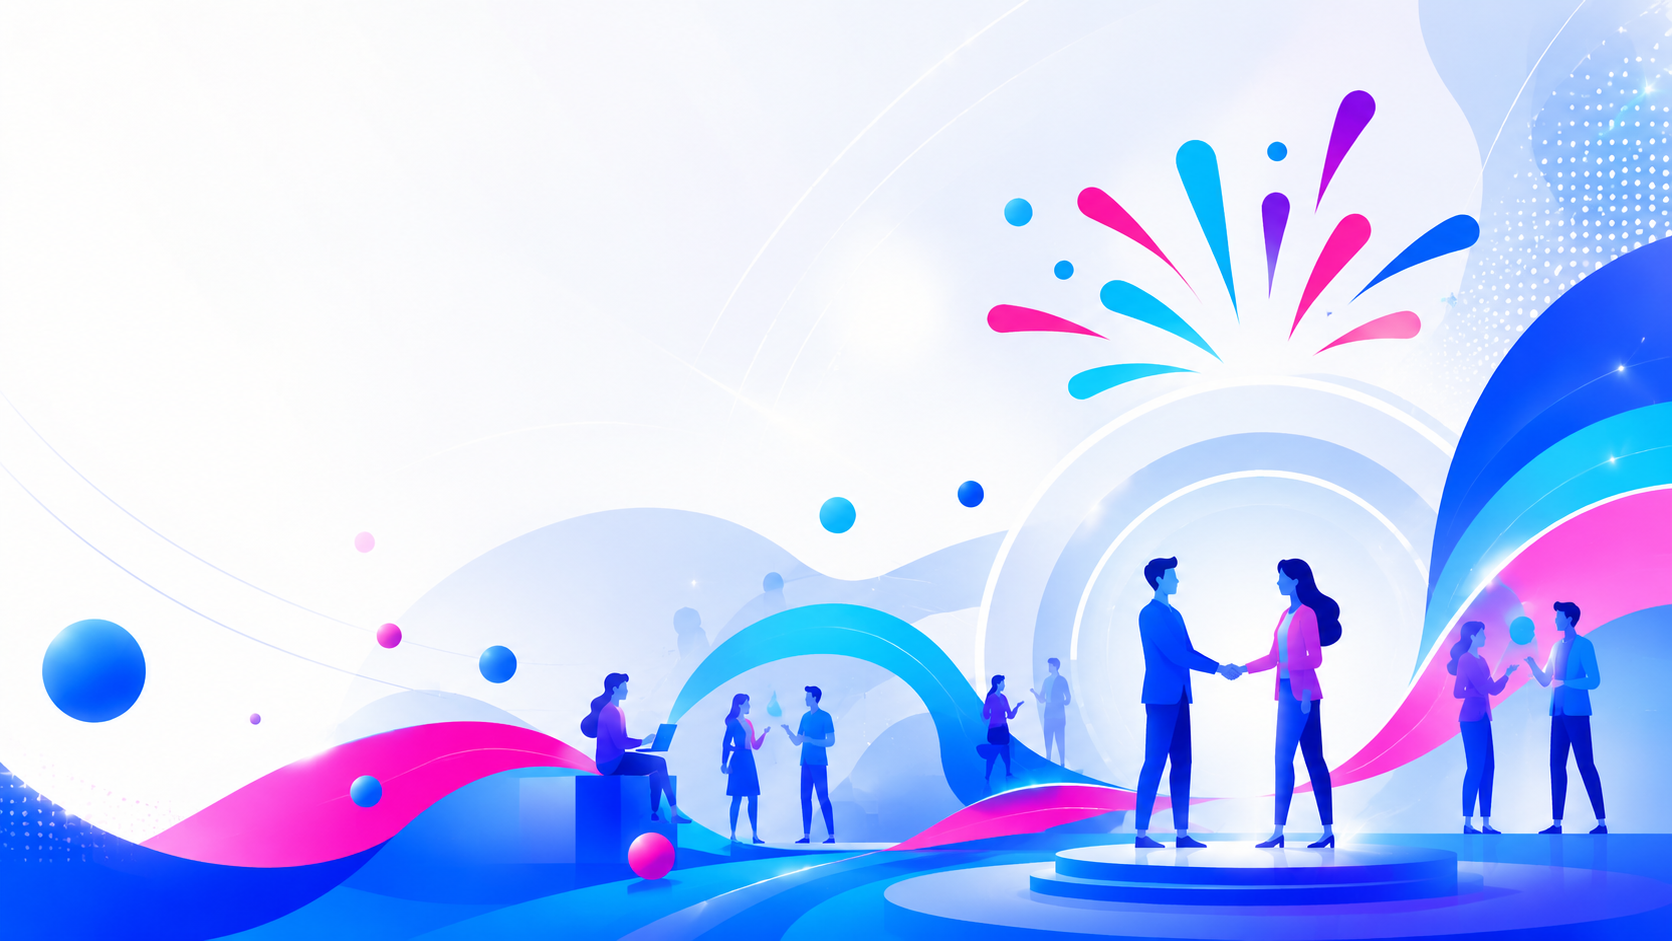
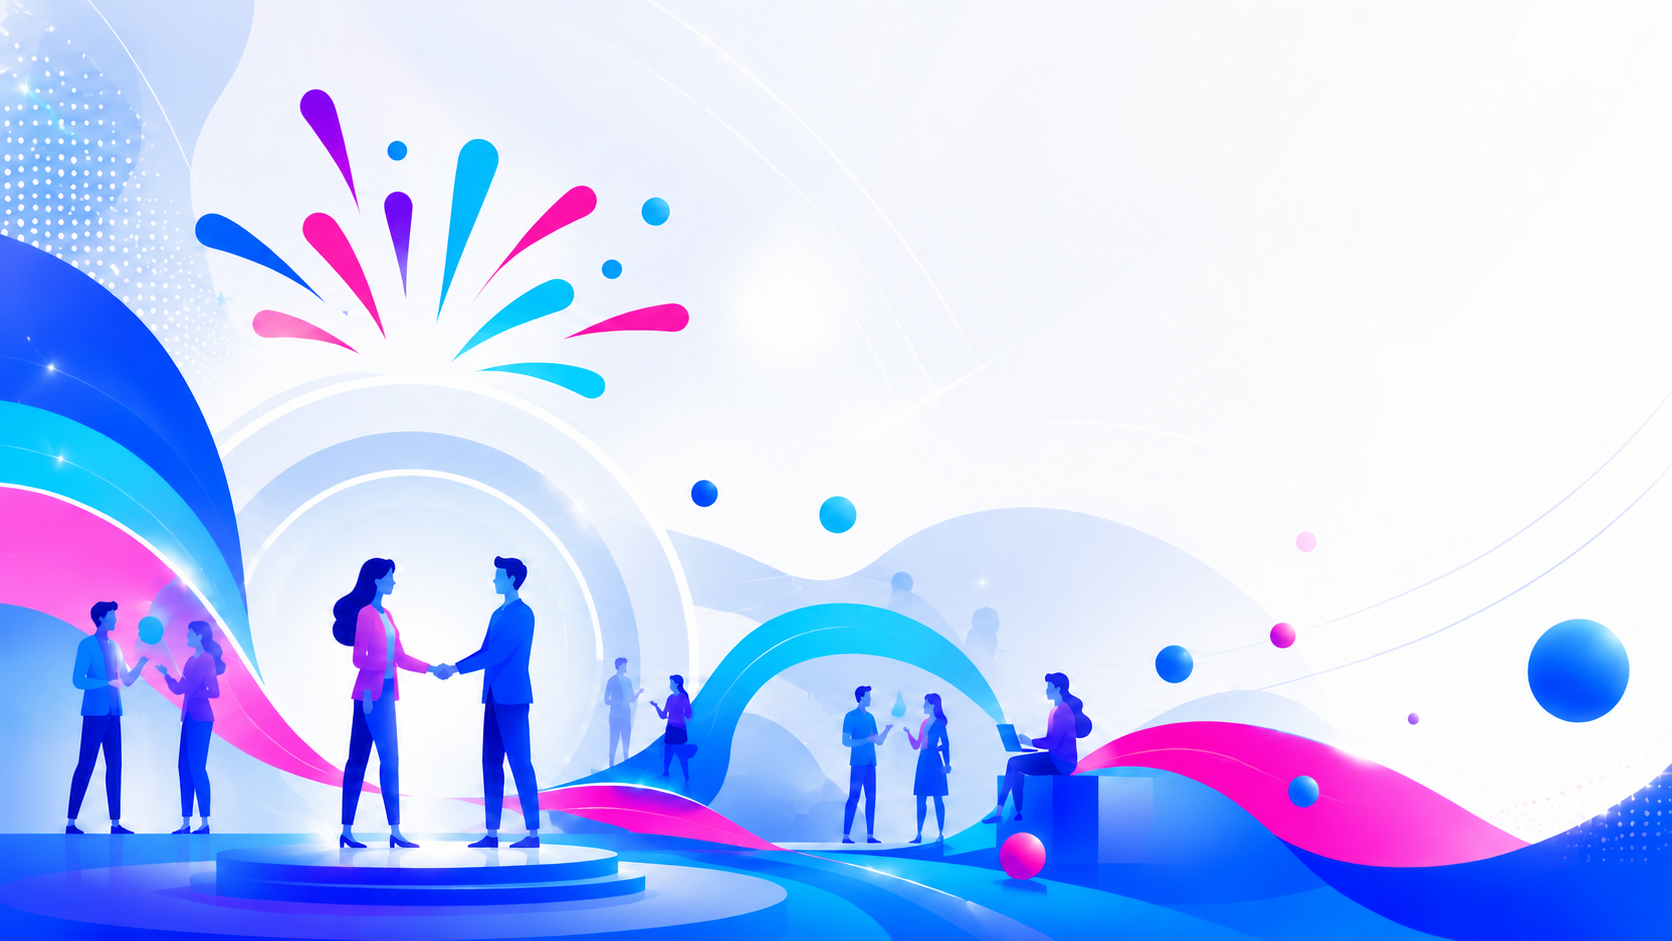
style(front): add animated CapEvents hero background

diff --git a/frontend/src/app/features/admin/admin-reward-requests/admin-reward-requests.css b/frontend/src/app/features/admin/admin-reward-requests/admin-reward-requests.css
@@ -32,20 +32,6 @@
   padding: 4px 0 0;
 }
 
-.page-kicker {
-  display: inline-flex;
-  width: fit-content;
-  padding: 5px 10px;
-  margin-bottom: 9px;
-  border-radius: 999px;
-  background: rgba(0, 88, 171, 0.07);
-  color: #0058AB;
-  font-size: 10px;
-  font-weight: 800;
-  letter-spacing: 0.08em;
-  text-transform: uppercase;
-}
-
 .header-text h1 {
   font-family: 'Ubuntu', sans-serif;
   font-size: 32px;

diff --git a/frontend/src/app/features/admin/admin-reward-requests/admin-reward-requests.html b/frontend/src/app/features/admin/admin-reward-requests/admin-reward-requests.html
@@ -2,7 +2,6 @@
   <div class="page-container">
     <div class="page-header">
       <div class="header-text">
-        <span class="page-kicker">Gamification RH</span>
         <h1>Demandes de récompenses</h1>
         <p class="header-sub">
           Traitez les demandes de récompenses nécessitant une validation RH.
